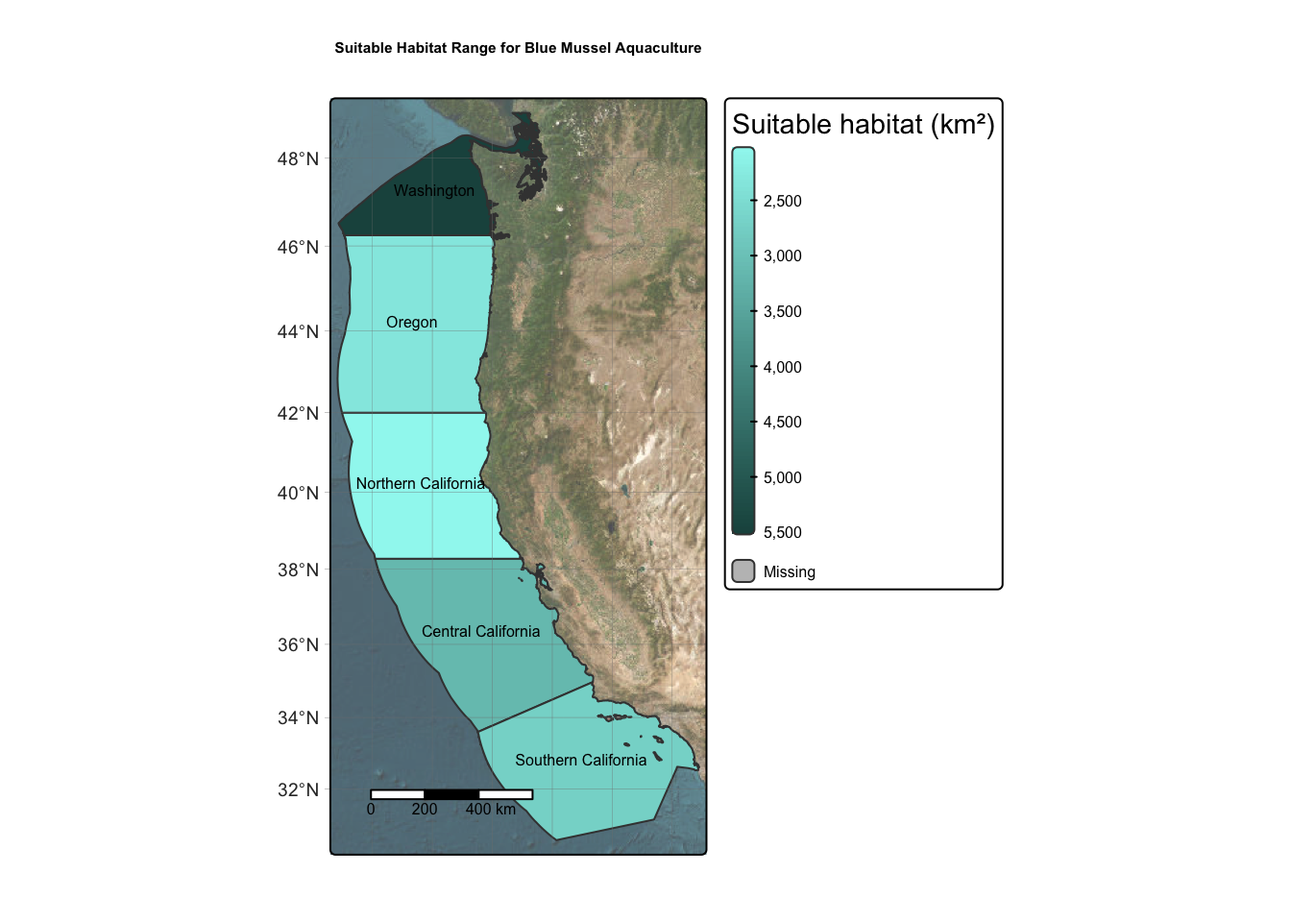
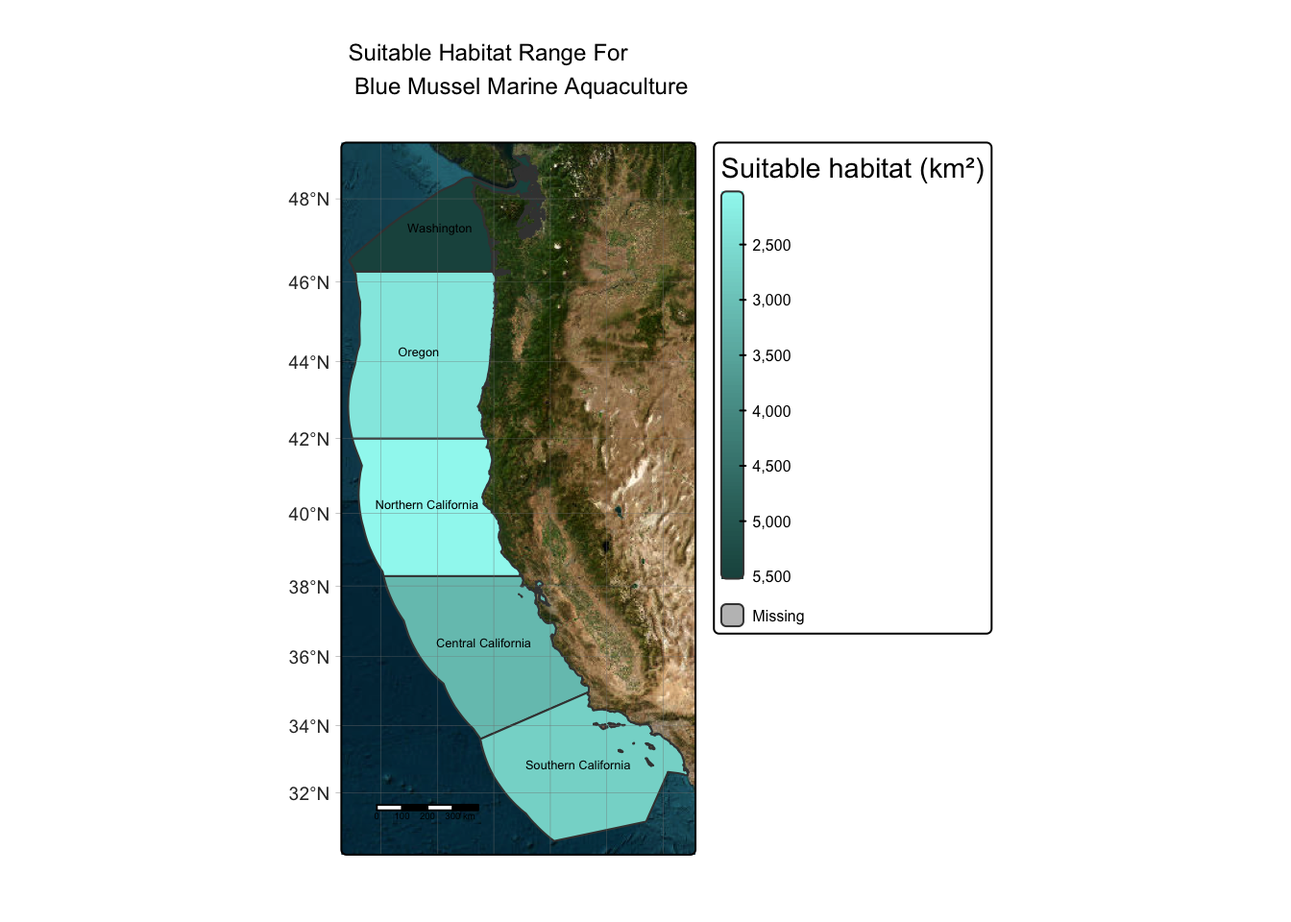
Update to eds-223 blog.

Changed region(s): [[0.2188, 0.0312, 0.7812, 0.9375]]

diff --git a/docs/posts/marine-aquaculture-blog/marine-aquaculture.html b/docs/posts/marine-aquaculture-blog/marine-aquaculture.html
@@ -604,21 +604,22 @@ div.csl-indent {
 <p>Now I will map the suitable locations for oyster marien aquaculture.</p>
 <div class="cell">
 <div class="code-copy-outer-scaffold"><div class="sourceCode cell-code" id="cb23"><pre class="sourceCode r code-with-copy"><code class="sourceCode r"><span id="cb23-1"><a href="#cb23-1" aria-hidden="true" tabindex="-1"></a><span class="co">#| label: oyster map</span></span>
-<span id="cb23-2"><a href="#cb23-2" aria-hidden="true" tabindex="-1"></a>oyster_map <span class="ot">&lt;-</span> <span class="fu">tm_tiles</span>(<span class="st">"Esri.WorldImagery"</span>, <span class="at">alpha =</span> <span class="fl">0.7</span>) <span class="sc">+</span> <span class="co"># basemap with tm_tiles()</span></span>
-<span id="cb23-3"><a href="#cb23-3" aria-hidden="true" tabindex="-1"></a><span class="fu">tm_shape</span>(eez_suitable_locations) <span class="sc">+</span></span>
-<span id="cb23-4"><a href="#cb23-4" aria-hidden="true" tabindex="-1"></a>  <span class="fu">tm_polygons</span>(<span class="at">fill =</span> <span class="st">"area_suitable_km"</span> , <span class="co"># fill polygons based on suitable area </span></span>
-<span id="cb23-5"><a href="#cb23-5" aria-hidden="true" tabindex="-1"></a>              <span class="at">style =</span> <span class="st">"cont"</span>, <span class="co"># continuous value scale </span></span>
-<span id="cb23-6"><a href="#cb23-6" aria-hidden="true" tabindex="-1"></a>    <span class="at">palette =</span> <span class="fu">c</span>(<span class="st">"#9ef7f0"</span>, <span class="st">"#1d524d"</span>), <span class="co"># palette of colors </span></span>
-<span id="cb23-7"><a href="#cb23-7" aria-hidden="true" tabindex="-1"></a>    <span class="at">title =</span> <span class="st">"Suitable habitat (km²)"</span>, <span class="at">size =</span> <span class="fl">0.8</span>) <span class="sc">+</span> <span class="co"># legend title </span></span>
-<span id="cb23-8"><a href="#cb23-8" aria-hidden="true" tabindex="-1"></a>  <span class="fu">tm_layout</span>(<span class="at">legend.outside =</span> <span class="cn">TRUE</span>, </span>
-<span id="cb23-9"><a href="#cb23-9" aria-hidden="true" tabindex="-1"></a>            <span class="at">legend.text.size =</span> <span class="fl">0.5</span>) <span class="sc">+</span> <span class="co"># legend position and size</span></span>
-<span id="cb23-10"><a href="#cb23-10" aria-hidden="true" tabindex="-1"></a>  <span class="fu">tm_title</span>(<span class="st">"Suitable Habitat Range for Oyster Aquaculture"</span>, <span class="at">fontface =</span> <span class="st">"bold"</span>, <span class="at">size =</span> <span class="fl">0.8</span>) <span class="sc">+</span> <span class="co"># title </span></span>
-<span id="cb23-11"><a href="#cb23-11" aria-hidden="true" tabindex="-1"></a>  <span class="fu">tm_graticules</span>(<span class="at">lwd =</span> <span class="fl">0.2</span>) <span class="sc">+</span> <span class="co"># gridlines </span></span>
-<span id="cb23-12"><a href="#cb23-12" aria-hidden="true" tabindex="-1"></a>  <span class="fu">tm_scalebar</span>(<span class="at">position =</span> <span class="fu">c</span>(<span class="st">"left"</span>, <span class="st">"bottom"</span>), <span class="at">text.size =</span> <span class="fl">0.5</span>) <span class="sc">+</span> <span class="co">#scalebar </span></span>
-<span id="cb23-13"><a href="#cb23-13" aria-hidden="true" tabindex="-1"></a>  <span class="fu">tm_text</span>(<span class="st">"rgn"</span>, <span class="co"># overlay text for region</span></span>
-<span id="cb23-14"><a href="#cb23-14" aria-hidden="true" tabindex="-1"></a>          <span class="at">size =</span> <span class="fl">0.5</span>,  </span>
-<span id="cb23-15"><a href="#cb23-15" aria-hidden="true" tabindex="-1"></a>          <span class="at">xmod =</span> <span class="sc">-</span><span class="fl">0.2</span>,</span>
-<span id="cb23-16"><a href="#cb23-16" aria-hidden="true" tabindex="-1"></a>  <span class="at">ymod =</span> <span class="fl">0.2</span>)</span></code></pre></div><button title="Copy to Clipboard" class="code-copy-button"><i class="bi"></i></button></div>
+<span id="cb23-2"><a href="#cb23-2" aria-hidden="true" tabindex="-1"></a>oyster_map <span class="ot">&lt;-</span></span>
+<span id="cb23-3"><a href="#cb23-3" aria-hidden="true" tabindex="-1"></a>  <span class="fu">tm_basemap</span>(<span class="st">"Esri.WorldImagery"</span>) <span class="sc">+</span></span>
+<span id="cb23-4"><a href="#cb23-4" aria-hidden="true" tabindex="-1"></a><span class="fu">tm_shape</span>(eez_suitable_locations) <span class="sc">+</span></span>
+<span id="cb23-5"><a href="#cb23-5" aria-hidden="true" tabindex="-1"></a>  <span class="fu">tm_polygons</span>(<span class="at">fill =</span> <span class="st">"area_suitable_km"</span> , <span class="co"># fill polygons based on suitable area </span></span>
+<span id="cb23-6"><a href="#cb23-6" aria-hidden="true" tabindex="-1"></a>              <span class="at">style =</span> <span class="st">"cont"</span>, <span class="co"># continuous value scale </span></span>
+<span id="cb23-7"><a href="#cb23-7" aria-hidden="true" tabindex="-1"></a>    <span class="at">palette =</span> <span class="fu">c</span>(<span class="st">"#9ef7f0"</span>, <span class="st">"#1d524d"</span>), <span class="co"># palette of colors </span></span>
+<span id="cb23-8"><a href="#cb23-8" aria-hidden="true" tabindex="-1"></a>    <span class="at">title =</span> <span class="st">"Suitable habitat (km²)"</span>, <span class="at">size =</span> <span class="fl">0.8</span>) <span class="sc">+</span> <span class="co"># legend title </span></span>
+<span id="cb23-9"><a href="#cb23-9" aria-hidden="true" tabindex="-1"></a>  <span class="fu">tm_layout</span>(<span class="at">legend.outside =</span> <span class="cn">TRUE</span>, </span>
+<span id="cb23-10"><a href="#cb23-10" aria-hidden="true" tabindex="-1"></a>            <span class="at">legend.text.size =</span> <span class="fl">0.5</span>) <span class="sc">+</span></span>
+<span id="cb23-11"><a href="#cb23-11" aria-hidden="true" tabindex="-1"></a>  <span class="fu">tm_title</span>(<span class="fu">paste</span>(<span class="st">"Suitable Habitat Range For"</span>, <span class="st">"Oyster Aquaculture"</span>, <span class="at">sep =</span> <span class="st">"</span><span class="sc">\n</span><span class="st">"</span>), <span class="at">size =</span> <span class="dv">1</span>)  <span class="sc">+</span></span>
+<span id="cb23-12"><a href="#cb23-12" aria-hidden="true" tabindex="-1"></a>  <span class="fu">tm_graticules</span>(<span class="at">lwd =</span> <span class="fl">0.2</span>) <span class="sc">+</span> <span class="co"># gridlines </span></span>
+<span id="cb23-13"><a href="#cb23-13" aria-hidden="true" tabindex="-1"></a>  <span class="fu">tm_scalebar</span>(<span class="at">position =</span> <span class="fu">c</span>(<span class="st">"left"</span>, <span class="st">"bottom"</span>), <span class="at">text.size =</span> <span class="fl">0.3</span>)<span class="sc">+</span> <span class="co">#scalebar </span></span>
+<span id="cb23-14"><a href="#cb23-14" aria-hidden="true" tabindex="-1"></a>  <span class="fu">tm_text</span>(<span class="st">"rgn"</span>, <span class="co"># overlay text for region</span></span>
+<span id="cb23-15"><a href="#cb23-15" aria-hidden="true" tabindex="-1"></a>          <span class="at">size =</span> <span class="fl">0.4</span>,  </span>
+<span id="cb23-16"><a href="#cb23-16" aria-hidden="true" tabindex="-1"></a>          <span class="at">xmod =</span> <span class="sc">-</span><span class="fl">0.2</span>,</span>
+<span id="cb23-17"><a href="#cb23-17" aria-hidden="true" tabindex="-1"></a>  <span class="at">ymod =</span> <span class="fl">0.3</span>)</span></code></pre></div><button title="Copy to Clipboard" class="code-copy-button"><i class="bi"></i></button></div>
 <div class="cell-output cell-output-stderr">
 <pre><code></code></pre>
 </div>
@@ -636,11 +637,6 @@ visual variable `fill` namely 'title' to 'fill.legend = tm_legend(&lt;HERE&gt;)'
 </div>
 <div class="code-copy-outer-scaffold"><div class="sourceCode cell-code" id="cb27"><pre class="sourceCode r code-with-copy"><code class="sourceCode r"><span id="cb27-1"><a href="#cb27-1" aria-hidden="true" tabindex="-1"></a><span class="co"># View map</span></span>
 <span id="cb27-2"><a href="#cb27-2" aria-hidden="true" tabindex="-1"></a>oyster_map </span></code></pre></div><button title="Copy to Clipboard" class="code-copy-button"><i class="bi"></i></button></div>
-<div class="cell-output cell-output-stderr">
-<pre><code>[plot mode] fit legend/component: Some legend items or map compoments do not
-fit well, and are therefore rescaled.
-ℹ Set the tmap option `component.autoscale = FALSE` to disable rescaling.</code></pre>
-</div>
 <div class="cell-output-display">
 <div>
 <figure class="figure">
@@ -655,114 +651,111 @@ fit well, and are therefore rescaled.
 <h2 class="anchored" data-anchor-id="generalizable-function">Generalizable function</h2>
 <p>Now that I have a worfklow for determining the suitable locations for oysters, I will create a generalizable function that can be applied to any species of interest. I will test this function for my second focal species <strong>blue mussels</strong>.</p>
 <div class="cell">
-<div class="code-copy-outer-scaffold"><div class="sourceCode cell-code" id="cb29"><pre class="sourceCode r code-with-copy"><code class="sourceCode r"><span id="cb29-1"><a href="#cb29-1" aria-hidden="true" tabindex="-1"></a><span class="co"># Define function name and arguments </span></span>
-<span id="cb29-2"><a href="#cb29-2" aria-hidden="true" tabindex="-1"></a>suitability_fun <span class="ot">&lt;-</span> <span class="cf">function</span>(sst_min, sst_max, depth_min, depth_max, species) {</span>
-<span id="cb29-3"><a href="#cb29-3" aria-hidden="true" tabindex="-1"></a>  </span>
-<span id="cb29-4"><a href="#cb29-4" aria-hidden="true" tabindex="-1"></a><span class="co"># 1. Reclassification matrices </span></span>
-<span id="cb29-5"><a href="#cb29-5" aria-hidden="true" tabindex="-1"></a>  </span>
-<span id="cb29-6"><a href="#cb29-6" aria-hidden="true" tabindex="-1"></a>  <span class="co"># Define SST reclassification matrix </span></span>
-<span id="cb29-7"><a href="#cb29-7" aria-hidden="true" tabindex="-1"></a>  sst_matrix <span class="ot">&lt;-</span> <span class="fu">matrix</span>(</span>
-<span id="cb29-8"><a href="#cb29-8" aria-hidden="true" tabindex="-1"></a>    <span class="fu">c</span>(</span>
-<span id="cb29-9"><a href="#cb29-9" aria-hidden="true" tabindex="-1"></a>      <span class="sc">-</span><span class="cn">Inf</span>,  sst_min, <span class="dv">0</span>,   <span class="co"># below min sst = 0/unsuitable</span></span>
-<span id="cb29-10"><a href="#cb29-10" aria-hidden="true" tabindex="-1"></a>       sst_min, sst_max, <span class="dv">1</span>, <span class="co"># range of sst = 1/suitable</span></span>
-<span id="cb29-11"><a href="#cb29-11" aria-hidden="true" tabindex="-1"></a>       sst_max, <span class="cn">Inf</span>,    <span class="dv">0</span>   <span class="co"># above max sst = 0/unsuitable</span></span>
-<span id="cb29-12"><a href="#cb29-12" aria-hidden="true" tabindex="-1"></a>    ),</span>
-<span id="cb29-13"><a href="#cb29-13" aria-hidden="true" tabindex="-1"></a>    <span class="at">ncol =</span> <span class="dv">3</span>, <span class="at">byrow =</span> <span class="cn">TRUE</span></span>
-<span id="cb29-14"><a href="#cb29-14" aria-hidden="true" tabindex="-1"></a>  )</span>
-<span id="cb29-15"><a href="#cb29-15" aria-hidden="true" tabindex="-1"></a></span>
-<span id="cb29-16"><a href="#cb29-16" aria-hidden="true" tabindex="-1"></a>  <span class="co"># Define Depth reclassification matrix </span></span>
-<span id="cb29-17"><a href="#cb29-17" aria-hidden="true" tabindex="-1"></a>dmin <span class="ot">&lt;-</span> <span class="fu">min</span>(depth_min, depth_max) <span class="co"># ensure depth min is the smaller depth</span></span>
-<span id="cb29-18"><a href="#cb29-18" aria-hidden="true" tabindex="-1"></a>dmax <span class="ot">&lt;-</span> <span class="fu">max</span>(depth_min, depth_max) </span>
-<span id="cb29-19"><a href="#cb29-19" aria-hidden="true" tabindex="-1"></a></span>
-<span id="cb29-20"><a href="#cb29-20" aria-hidden="true" tabindex="-1"></a>depth_matrix <span class="ot">&lt;-</span> <span class="fu">matrix</span>(</span>
-<span id="cb29-21"><a href="#cb29-21" aria-hidden="true" tabindex="-1"></a>  <span class="fu">c</span>(<span class="sc">-</span><span class="cn">Inf</span>, <span class="sc">-</span>dmax, <span class="dv">0</span>,</span>
-<span id="cb29-22"><a href="#cb29-22" aria-hidden="true" tabindex="-1"></a>    <span class="sc">-</span>dmax, <span class="sc">-</span>dmin, <span class="dv">1</span>,</span>
-<span id="cb29-23"><a href="#cb29-23" aria-hidden="true" tabindex="-1"></a>    <span class="sc">-</span>dmin, <span class="cn">Inf</span>, <span class="dv">0</span>),</span>
-<span id="cb29-24"><a href="#cb29-24" aria-hidden="true" tabindex="-1"></a>  <span class="at">ncol =</span> <span class="dv">3</span>, <span class="at">byrow =</span> <span class="cn">TRUE</span></span>
-<span id="cb29-25"><a href="#cb29-25" aria-hidden="true" tabindex="-1"></a>)</span>
-<span id="cb29-26"><a href="#cb29-26" aria-hidden="true" tabindex="-1"></a>  </span>
-<span id="cb29-27"><a href="#cb29-27" aria-hidden="true" tabindex="-1"></a><span class="co"># 2. Reclassify SST and Depth data </span></span>
-<span id="cb29-28"><a href="#cb29-28" aria-hidden="true" tabindex="-1"></a>  </span>
-<span id="cb29-29"><a href="#cb29-29" aria-hidden="true" tabindex="-1"></a>  <span class="co"># Reclassify SST </span></span>
-<span id="cb29-30"><a href="#cb29-30" aria-hidden="true" tabindex="-1"></a>  sst_rcl <span class="ot">&lt;-</span> terra<span class="sc">::</span><span class="fu">classify</span>(avg_sst_c, <span class="at">rcl =</span> sst_matrix)</span>
-<span id="cb29-31"><a href="#cb29-31" aria-hidden="true" tabindex="-1"></a>  <span class="co"># Fill NAN values with NAs </span></span>
-<span id="cb29-32"><a href="#cb29-32" aria-hidden="true" tabindex="-1"></a>  <span class="fu">values</span>(sst_rcl)[<span class="fu">is.nan</span>(<span class="fu">values</span>(sst_rcl))] <span class="ot">&lt;-</span> <span class="cn">NA</span></span>
-<span id="cb29-33"><a href="#cb29-33" aria-hidden="true" tabindex="-1"></a></span>
-<span id="cb29-34"><a href="#cb29-34" aria-hidden="true" tabindex="-1"></a>  <span class="co"># Reclassify depth </span></span>
-<span id="cb29-35"><a href="#cb29-35" aria-hidden="true" tabindex="-1"></a>  depth_rcl <span class="ot">&lt;-</span> terra<span class="sc">::</span><span class="fu">classify</span>(depth, <span class="at">rcl =</span> depth_matrix)</span>
-<span id="cb29-36"><a href="#cb29-36" aria-hidden="true" tabindex="-1"></a>  </span>
-<span id="cb29-37"><a href="#cb29-37" aria-hidden="true" tabindex="-1"></a><span class="co"># 3. Find suitable locations</span></span>
-<span id="cb29-38"><a href="#cb29-38" aria-hidden="true" tabindex="-1"></a>  <span class="co"># Multiply reclassifications to create matrix of 0/1</span></span>
-<span id="cb29-39"><a href="#cb29-39" aria-hidden="true" tabindex="-1"></a>  suitable_locations <span class="ot">&lt;-</span> sst_rcl <span class="sc">*</span> depth_rcl</span>
-<span id="cb29-40"><a href="#cb29-40" aria-hidden="true" tabindex="-1"></a></span>
-<span id="cb29-41"><a href="#cb29-41" aria-hidden="true" tabindex="-1"></a>  <span class="co"># Convert zeros to NAs</span></span>
-<span id="cb29-42"><a href="#cb29-42" aria-hidden="true" tabindex="-1"></a>  suitable_locations[suitable_locations <span class="sc">==</span> <span class="dv">0</span>] <span class="ot">&lt;-</span> <span class="cn">NA</span></span>
-<span id="cb29-43"><a href="#cb29-43" aria-hidden="true" tabindex="-1"></a></span>
-<span id="cb29-44"><a href="#cb29-44" aria-hidden="true" tabindex="-1"></a>  <span class="co"># Apply mask to keep only suitable raster cells in eez </span></span>
-<span id="cb29-45"><a href="#cb29-45" aria-hidden="true" tabindex="-1"></a>  eez_cells <span class="ot">&lt;-</span> <span class="fu">mask</span>(suitable_locations, eez)</span>
-<span id="cb29-46"><a href="#cb29-46" aria-hidden="true" tabindex="-1"></a>  </span>
-<span id="cb29-47"><a href="#cb29-47" aria-hidden="true" tabindex="-1"></a>  <span class="co"># Find cell area</span></span>
-<span id="cb29-48"><a href="#cb29-48" aria-hidden="true" tabindex="-1"></a>  eez_cells_area <span class="ot">&lt;-</span> <span class="fu">cellSize</span>(eez_cells, <span class="at">unit =</span> <span class="st">"km"</span>)</span>
-<span id="cb29-49"><a href="#cb29-49" aria-hidden="true" tabindex="-1"></a></span>
-<span id="cb29-50"><a href="#cb29-50" aria-hidden="true" tabindex="-1"></a><span class="co"># 4. Zonal operation</span></span>
-<span id="cb29-51"><a href="#cb29-51" aria-hidden="true" tabindex="-1"></a>  </span>
-<span id="cb29-52"><a href="#cb29-52" aria-hidden="true" tabindex="-1"></a>  <span class="co"># Rasterize eez</span></span>
-<span id="cb29-53"><a href="#cb29-53" aria-hidden="true" tabindex="-1"></a>rast_eez <span class="ot">&lt;-</span> <span class="fu">rasterize</span>(eez, eez_cells, <span class="at">field =</span> <span class="st">"rgn_id"</span>)</span>
-<span id="cb29-54"><a href="#cb29-54" aria-hidden="true" tabindex="-1"></a></span>
-<span id="cb29-55"><a href="#cb29-55" aria-hidden="true" tabindex="-1"></a>  <span class="co"># perform zonal operation </span></span>
-<span id="cb29-56"><a href="#cb29-56" aria-hidden="true" tabindex="-1"></a>area_by_eez<span class="ot">&lt;-</span> <span class="fu">zonal</span>(<span class="at">x =</span> eez_cells_area <span class="sc">*</span> eez_cells, <span class="at">z =</span> rast_eez, <span class="at">fun =</span> <span class="st">"sum"</span>, <span class="at">na.rm =</span> <span class="cn">TRUE</span>)</span>
-<span id="cb29-57"><a href="#cb29-57" aria-hidden="true" tabindex="-1"></a></span>
-<span id="cb29-58"><a href="#cb29-58" aria-hidden="true" tabindex="-1"></a><span class="co"># 5. Join data </span></span>
-<span id="cb29-59"><a href="#cb29-59" aria-hidden="true" tabindex="-1"></a></span>
-<span id="cb29-60"><a href="#cb29-60" aria-hidden="true" tabindex="-1"></a>eez_suitable_locations <span class="ot">&lt;-</span> area_by_eez <span class="sc">%&gt;%</span></span>
-<span id="cb29-61"><a href="#cb29-61" aria-hidden="true" tabindex="-1"></a>  <span class="fu">left_join</span>(eez, <span class="at">by =</span> <span class="st">"rgn_id"</span>) <span class="sc">%&gt;%</span> <span class="co"># join on 'rgn_id'</span></span>
-<span id="cb29-62"><a href="#cb29-62" aria-hidden="true" tabindex="-1"></a>  <span class="fu">rename</span>(<span class="at">area_suitable_km =</span> area) <span class="sc">%&gt;%</span> <span class="co"># rename column</span></span>
-<span id="cb29-63"><a href="#cb29-63" aria-hidden="true" tabindex="-1"></a>  <span class="fu">select</span>(rgn, area_suitable_km, geometry) <span class="co"># select certain columns for df</span></span>
-<span id="cb29-64"><a href="#cb29-64" aria-hidden="true" tabindex="-1"></a></span>
-<span id="cb29-65"><a href="#cb29-65" aria-hidden="true" tabindex="-1"></a><span class="co"># 6. Convert to sf object</span></span>
-<span id="cb29-66"><a href="#cb29-66" aria-hidden="true" tabindex="-1"></a>eez_suitable_locations <span class="ot">&lt;-</span> <span class="fu">st_as_sf</span>(eez_suitable_locations)</span>
-<span id="cb29-67"><a href="#cb29-67" aria-hidden="true" tabindex="-1"></a>  </span>
-<span id="cb29-68"><a href="#cb29-68" aria-hidden="true" tabindex="-1"></a></span>
-<span id="cb29-69"><a href="#cb29-69" aria-hidden="true" tabindex="-1"></a><span class="co"># 7.  Create map </span></span>
-<span id="cb29-70"><a href="#cb29-70" aria-hidden="true" tabindex="-1"></a>  </span>
-<span id="cb29-71"><a href="#cb29-71" aria-hidden="true" tabindex="-1"></a>species_map <span class="ot">&lt;-</span> <span class="fu">tm_tiles</span>(<span class="st">"Esri.WorldImagery"</span>, <span class="at">alpha =</span> <span class="fl">0.7</span>) <span class="sc">+</span> <span class="co"># basemap with tm_tiles()</span></span>
-<span id="cb29-72"><a href="#cb29-72" aria-hidden="true" tabindex="-1"></a><span class="fu">tm_shape</span>(eez_suitable_locations) <span class="sc">+</span></span>
-<span id="cb29-73"><a href="#cb29-73" aria-hidden="true" tabindex="-1"></a>  <span class="fu">tm_polygons</span>(<span class="at">fill =</span> <span class="st">"area_suitable_km"</span> , <span class="co"># fill polygons based on suitable area </span></span>
-<span id="cb29-74"><a href="#cb29-74" aria-hidden="true" tabindex="-1"></a>              <span class="at">style =</span> <span class="st">"cont"</span>, <span class="co"># continuous value scale </span></span>
-<span id="cb29-75"><a href="#cb29-75" aria-hidden="true" tabindex="-1"></a>    <span class="at">palette =</span> <span class="fu">c</span>(<span class="st">"#9ef7f0"</span>, <span class="st">"#1d524d"</span>), <span class="co"># palette of colors </span></span>
-<span id="cb29-76"><a href="#cb29-76" aria-hidden="true" tabindex="-1"></a>    <span class="at">title =</span> <span class="st">"Suitable habitat (km²)"</span>, <span class="at">size =</span> <span class="fl">0.8</span>) <span class="sc">+</span> <span class="co"># legend title </span></span>
-<span id="cb29-77"><a href="#cb29-77" aria-hidden="true" tabindex="-1"></a>  <span class="fu">tm_layout</span>(<span class="at">legend.outside =</span> <span class="cn">TRUE</span>, </span>
-<span id="cb29-78"><a href="#cb29-78" aria-hidden="true" tabindex="-1"></a>            <span class="at">legend.text.size =</span> <span class="fl">0.5</span>) <span class="sc">+</span> <span class="co"># legend position and size </span></span>
-<span id="cb29-79"><a href="#cb29-79" aria-hidden="true" tabindex="-1"></a>  <span class="fu">tm_title</span>(</span>
-<span id="cb29-80"><a href="#cb29-80" aria-hidden="true" tabindex="-1"></a>  <span class="fu">paste0</span>(<span class="st">"Suitable Habitat Range for "</span>, species, <span class="st">" Aquaculture"</span>),</span>
-<span id="cb29-81"><a href="#cb29-81" aria-hidden="true" tabindex="-1"></a>  <span class="at">fontface =</span> <span class="st">"bold"</span>,</span>
-<span id="cb29-82"><a href="#cb29-82" aria-hidden="true" tabindex="-1"></a>  <span class="at">size =</span> <span class="dv">1</span></span>
-<span id="cb29-83"><a href="#cb29-83" aria-hidden="true" tabindex="-1"></a>)<span class="sc">+</span> <span class="co"># title </span></span>
-<span id="cb29-84"><a href="#cb29-84" aria-hidden="true" tabindex="-1"></a>  <span class="fu">tm_graticules</span>(<span class="at">lwd =</span> <span class="fl">0.2</span>) <span class="sc">+</span> <span class="co"># gridlines </span></span>
-<span id="cb29-85"><a href="#cb29-85" aria-hidden="true" tabindex="-1"></a>  <span class="fu">tm_scalebar</span>(<span class="at">position =</span> <span class="fu">c</span>(<span class="st">"left"</span>, <span class="st">"bottom"</span>), <span class="at">text.size =</span> <span class="fl">0.5</span>) <span class="sc">+</span> <span class="co">#scalebar </span></span>
-<span id="cb29-86"><a href="#cb29-86" aria-hidden="true" tabindex="-1"></a>  <span class="fu">tm_text</span>(<span class="st">"rgn"</span>, <span class="co"># overlay text for region</span></span>
-<span id="cb29-87"><a href="#cb29-87" aria-hidden="true" tabindex="-1"></a>          <span class="at">size =</span> <span class="fl">0.5</span>,  </span>
-<span id="cb29-88"><a href="#cb29-88" aria-hidden="true" tabindex="-1"></a>          <span class="at">xmod =</span> <span class="sc">-</span><span class="fl">0.2</span>,</span>
-<span id="cb29-89"><a href="#cb29-89" aria-hidden="true" tabindex="-1"></a>  <span class="at">ymod =</span> <span class="fl">0.2</span>)</span>
-<span id="cb29-90"><a href="#cb29-90" aria-hidden="true" tabindex="-1"></a></span>
-<span id="cb29-91"><a href="#cb29-91" aria-hidden="true" tabindex="-1"></a></span>
-<span id="cb29-92"><a href="#cb29-92" aria-hidden="true" tabindex="-1"></a><span class="co"># return species map and table of eez suitable area </span></span>
-<span id="cb29-93"><a href="#cb29-93" aria-hidden="true" tabindex="-1"></a><span class="fu">return</span>(species_map) </span>
-<span id="cb29-94"><a href="#cb29-94" aria-hidden="true" tabindex="-1"></a></span>
-<span id="cb29-95"><a href="#cb29-95" aria-hidden="true" tabindex="-1"></a>}</span></code></pre></div><button title="Copy to Clipboard" class="code-copy-button"><i class="bi"></i></button></div>
+<div class="code-copy-outer-scaffold"><div class="sourceCode cell-code" id="cb28"><pre class="sourceCode r code-with-copy"><code class="sourceCode r"><span id="cb28-1"><a href="#cb28-1" aria-hidden="true" tabindex="-1"></a><span class="co"># Define function name and arguments </span></span>
+<span id="cb28-2"><a href="#cb28-2" aria-hidden="true" tabindex="-1"></a>suitability_fun <span class="ot">&lt;-</span> <span class="cf">function</span>(sst_min, sst_max, depth_min, depth_max, species) {</span>
+<span id="cb28-3"><a href="#cb28-3" aria-hidden="true" tabindex="-1"></a>  </span>
+<span id="cb28-4"><a href="#cb28-4" aria-hidden="true" tabindex="-1"></a><span class="co"># 1. Reclassification matrices </span></span>
+<span id="cb28-5"><a href="#cb28-5" aria-hidden="true" tabindex="-1"></a>  </span>
+<span id="cb28-6"><a href="#cb28-6" aria-hidden="true" tabindex="-1"></a>  <span class="co"># Define SST reclassification matrix </span></span>
+<span id="cb28-7"><a href="#cb28-7" aria-hidden="true" tabindex="-1"></a>  sst_matrix <span class="ot">&lt;-</span> <span class="fu">matrix</span>(</span>
+<span id="cb28-8"><a href="#cb28-8" aria-hidden="true" tabindex="-1"></a>    <span class="fu">c</span>(</span>
+<span id="cb28-9"><a href="#cb28-9" aria-hidden="true" tabindex="-1"></a>      <span class="sc">-</span><span class="cn">Inf</span>,  sst_min, <span class="dv">0</span>,   <span class="co"># below min sst = 0/unsuitable</span></span>
+<span id="cb28-10"><a href="#cb28-10" aria-hidden="true" tabindex="-1"></a>       sst_min, sst_max, <span class="dv">1</span>, <span class="co"># range of sst = 1/suitable</span></span>
+<span id="cb28-11"><a href="#cb28-11" aria-hidden="true" tabindex="-1"></a>       sst_max, <span class="cn">Inf</span>,    <span class="dv">0</span>   <span class="co"># above max sst = 0/unsuitable</span></span>
+<span id="cb28-12"><a href="#cb28-12" aria-hidden="true" tabindex="-1"></a>    ),</span>
+<span id="cb28-13"><a href="#cb28-13" aria-hidden="true" tabindex="-1"></a>    <span class="at">ncol =</span> <span class="dv">3</span>, <span class="at">byrow =</span> <span class="cn">TRUE</span></span>
+<span id="cb28-14"><a href="#cb28-14" aria-hidden="true" tabindex="-1"></a>  )</span>
+<span id="cb28-15"><a href="#cb28-15" aria-hidden="true" tabindex="-1"></a></span>
+<span id="cb28-16"><a href="#cb28-16" aria-hidden="true" tabindex="-1"></a>  <span class="co"># Define Depth reclassification matrix </span></span>
+<span id="cb28-17"><a href="#cb28-17" aria-hidden="true" tabindex="-1"></a>dmin <span class="ot">&lt;-</span> <span class="fu">min</span>(depth_min, depth_max) <span class="co"># ensure depth min is the smaller depth</span></span>
+<span id="cb28-18"><a href="#cb28-18" aria-hidden="true" tabindex="-1"></a>dmax <span class="ot">&lt;-</span> <span class="fu">max</span>(depth_min, depth_max) </span>
+<span id="cb28-19"><a href="#cb28-19" aria-hidden="true" tabindex="-1"></a></span>
+<span id="cb28-20"><a href="#cb28-20" aria-hidden="true" tabindex="-1"></a>depth_matrix <span class="ot">&lt;-</span> <span class="fu">matrix</span>(</span>
+<span id="cb28-21"><a href="#cb28-21" aria-hidden="true" tabindex="-1"></a>  <span class="fu">c</span>(<span class="sc">-</span><span class="cn">Inf</span>, <span class="sc">-</span>dmax, <span class="dv">0</span>,</span>
+<span id="cb28-22"><a href="#cb28-22" aria-hidden="true" tabindex="-1"></a>    <span class="sc">-</span>dmax, <span class="sc">-</span>dmin, <span class="dv">1</span>,</span>
+<span id="cb28-23"><a href="#cb28-23" aria-hidden="true" tabindex="-1"></a>    <span class="sc">-</span>dmin, <span class="cn">Inf</span>, <span class="dv">0</span>),</span>
+<span id="cb28-24"><a href="#cb28-24" aria-hidden="true" tabindex="-1"></a>  <span class="at">ncol =</span> <span class="dv">3</span>, <span class="at">byrow =</span> <span class="cn">TRUE</span></span>
+<span id="cb28-25"><a href="#cb28-25" aria-hidden="true" tabindex="-1"></a>)</span>
+<span id="cb28-26"><a href="#cb28-26" aria-hidden="true" tabindex="-1"></a>  </span>
+<span id="cb28-27"><a href="#cb28-27" aria-hidden="true" tabindex="-1"></a><span class="co"># 2. Reclassify SST and Depth data </span></span>
+<span id="cb28-28"><a href="#cb28-28" aria-hidden="true" tabindex="-1"></a>  </span>
+<span id="cb28-29"><a href="#cb28-29" aria-hidden="true" tabindex="-1"></a>  <span class="co"># Reclassify SST </span></span>
+<span id="cb28-30"><a href="#cb28-30" aria-hidden="true" tabindex="-1"></a>  sst_rcl <span class="ot">&lt;-</span> terra<span class="sc">::</span><span class="fu">classify</span>(avg_sst_c, <span class="at">rcl =</span> sst_matrix)</span>
+<span id="cb28-31"><a href="#cb28-31" aria-hidden="true" tabindex="-1"></a>  <span class="co"># Fill NAN values with NAs </span></span>
+<span id="cb28-32"><a href="#cb28-32" aria-hidden="true" tabindex="-1"></a>  <span class="fu">values</span>(sst_rcl)[<span class="fu">is.nan</span>(<span class="fu">values</span>(sst_rcl))] <span class="ot">&lt;-</span> <span class="cn">NA</span></span>
+<span id="cb28-33"><a href="#cb28-33" aria-hidden="true" tabindex="-1"></a></span>
+<span id="cb28-34"><a href="#cb28-34" aria-hidden="true" tabindex="-1"></a>  <span class="co"># Reclassify depth </span></span>
+<span id="cb28-35"><a href="#cb28-35" aria-hidden="true" tabindex="-1"></a>  depth_rcl <span class="ot">&lt;-</span> terra<span class="sc">::</span><span class="fu">classify</span>(depth, <span class="at">rcl =</span> depth_matrix)</span>
+<span id="cb28-36"><a href="#cb28-36" aria-hidden="true" tabindex="-1"></a>  </span>
+<span id="cb28-37"><a href="#cb28-37" aria-hidden="true" tabindex="-1"></a><span class="co"># 3. Find suitable locations</span></span>
+<span id="cb28-38"><a href="#cb28-38" aria-hidden="true" tabindex="-1"></a>  <span class="co"># Multiply reclassifications to create matrix of 0/1</span></span>
+<span id="cb28-39"><a href="#cb28-39" aria-hidden="true" tabindex="-1"></a>  suitable_locations <span class="ot">&lt;-</span> sst_rcl <span class="sc">*</span> depth_rcl</span>
+<span id="cb28-40"><a href="#cb28-40" aria-hidden="true" tabindex="-1"></a></span>
+<span id="cb28-41"><a href="#cb28-41" aria-hidden="true" tabindex="-1"></a>  <span class="co"># Convert zeros to NAs</span></span>
+<span id="cb28-42"><a href="#cb28-42" aria-hidden="true" tabindex="-1"></a>  suitable_locations[suitable_locations <span class="sc">==</span> <span class="dv">0</span>] <span class="ot">&lt;-</span> <span class="cn">NA</span></span>
+<span id="cb28-43"><a href="#cb28-43" aria-hidden="true" tabindex="-1"></a></span>
+<span id="cb28-44"><a href="#cb28-44" aria-hidden="true" tabindex="-1"></a>  <span class="co"># Apply mask to keep only suitable raster cells in eez </span></span>
+<span id="cb28-45"><a href="#cb28-45" aria-hidden="true" tabindex="-1"></a>  eez_cells <span class="ot">&lt;-</span> <span class="fu">mask</span>(suitable_locations, eez)</span>
+<span id="cb28-46"><a href="#cb28-46" aria-hidden="true" tabindex="-1"></a>  </span>
+<span id="cb28-47"><a href="#cb28-47" aria-hidden="true" tabindex="-1"></a>  <span class="co"># Find cell area</span></span>
+<span id="cb28-48"><a href="#cb28-48" aria-hidden="true" tabindex="-1"></a>  eez_cells_area <span class="ot">&lt;-</span> <span class="fu">cellSize</span>(eez_cells, <span class="at">unit =</span> <span class="st">"km"</span>)</span>
+<span id="cb28-49"><a href="#cb28-49" aria-hidden="true" tabindex="-1"></a></span>
+<span id="cb28-50"><a href="#cb28-50" aria-hidden="true" tabindex="-1"></a><span class="co"># 4. Zonal operation</span></span>
+<span id="cb28-51"><a href="#cb28-51" aria-hidden="true" tabindex="-1"></a>  </span>
+<span id="cb28-52"><a href="#cb28-52" aria-hidden="true" tabindex="-1"></a>  <span class="co"># Rasterize eez</span></span>
+<span id="cb28-53"><a href="#cb28-53" aria-hidden="true" tabindex="-1"></a>rast_eez <span class="ot">&lt;-</span> <span class="fu">rasterize</span>(eez, eez_cells, <span class="at">field =</span> <span class="st">"rgn_id"</span>)</span>
+<span id="cb28-54"><a href="#cb28-54" aria-hidden="true" tabindex="-1"></a></span>
+<span id="cb28-55"><a href="#cb28-55" aria-hidden="true" tabindex="-1"></a>  <span class="co"># perform zonal operation </span></span>
+<span id="cb28-56"><a href="#cb28-56" aria-hidden="true" tabindex="-1"></a>area_by_eez<span class="ot">&lt;-</span> <span class="fu">zonal</span>(<span class="at">x =</span> eez_cells_area <span class="sc">*</span> eez_cells, <span class="at">z =</span> rast_eez, <span class="at">fun =</span> <span class="st">"sum"</span>, <span class="at">na.rm =</span> <span class="cn">TRUE</span>)</span>
+<span id="cb28-57"><a href="#cb28-57" aria-hidden="true" tabindex="-1"></a></span>
+<span id="cb28-58"><a href="#cb28-58" aria-hidden="true" tabindex="-1"></a><span class="co"># 5. Join data </span></span>
+<span id="cb28-59"><a href="#cb28-59" aria-hidden="true" tabindex="-1"></a></span>
+<span id="cb28-60"><a href="#cb28-60" aria-hidden="true" tabindex="-1"></a>eez_suitable_locations <span class="ot">&lt;-</span> area_by_eez <span class="sc">%&gt;%</span></span>
+<span id="cb28-61"><a href="#cb28-61" aria-hidden="true" tabindex="-1"></a>  <span class="fu">left_join</span>(eez, <span class="at">by =</span> <span class="st">"rgn_id"</span>) <span class="sc">%&gt;%</span> <span class="co"># join on 'rgn_id'</span></span>
+<span id="cb28-62"><a href="#cb28-62" aria-hidden="true" tabindex="-1"></a>  <span class="fu">rename</span>(<span class="at">area_suitable_km =</span> area) <span class="sc">%&gt;%</span> <span class="co"># rename column</span></span>
+<span id="cb28-63"><a href="#cb28-63" aria-hidden="true" tabindex="-1"></a>  <span class="fu">select</span>(rgn, area_suitable_km, geometry) <span class="co"># select certain columns for df</span></span>
+<span id="cb28-64"><a href="#cb28-64" aria-hidden="true" tabindex="-1"></a></span>
+<span id="cb28-65"><a href="#cb28-65" aria-hidden="true" tabindex="-1"></a><span class="co"># 6. Convert to sf object</span></span>
+<span id="cb28-66"><a href="#cb28-66" aria-hidden="true" tabindex="-1"></a>eez_suitable_locations <span class="ot">&lt;-</span> <span class="fu">st_as_sf</span>(eez_suitable_locations)</span>
+<span id="cb28-67"><a href="#cb28-67" aria-hidden="true" tabindex="-1"></a>  </span>
+<span id="cb28-68"><a href="#cb28-68" aria-hidden="true" tabindex="-1"></a></span>
+<span id="cb28-69"><a href="#cb28-69" aria-hidden="true" tabindex="-1"></a><span class="co"># 7.  Create map </span></span>
+<span id="cb28-70"><a href="#cb28-70" aria-hidden="true" tabindex="-1"></a>  </span>
+<span id="cb28-71"><a href="#cb28-71" aria-hidden="true" tabindex="-1"></a>species_map <span class="ot">&lt;-</span></span>
+<span id="cb28-72"><a href="#cb28-72" aria-hidden="true" tabindex="-1"></a><span class="fu">tm_basemap</span>(<span class="st">"Esri.WorldImagery"</span>) <span class="sc">+</span></span>
+<span id="cb28-73"><a href="#cb28-73" aria-hidden="true" tabindex="-1"></a><span class="fu">tm_shape</span>(eez_suitable_locations) <span class="sc">+</span></span>
+<span id="cb28-74"><a href="#cb28-74" aria-hidden="true" tabindex="-1"></a>  <span class="fu">tm_polygons</span>(<span class="at">fill =</span> <span class="st">"area_suitable_km"</span> , <span class="co"># fill polygons based on suitable area </span></span>
+<span id="cb28-75"><a href="#cb28-75" aria-hidden="true" tabindex="-1"></a>              <span class="at">style =</span> <span class="st">"cont"</span>, <span class="co"># continuous value scale </span></span>
+<span id="cb28-76"><a href="#cb28-76" aria-hidden="true" tabindex="-1"></a>    <span class="at">palette =</span> <span class="fu">c</span>(<span class="st">"#9ef7f0"</span>, <span class="st">"#1d524d"</span>), <span class="co"># palette of colors </span></span>
+<span id="cb28-77"><a href="#cb28-77" aria-hidden="true" tabindex="-1"></a>    <span class="at">title =</span> <span class="st">"Suitable habitat (km²)"</span>, <span class="at">size =</span> <span class="fl">0.8</span>) <span class="sc">+</span> <span class="co"># legend title </span></span>
+<span id="cb28-78"><a href="#cb28-78" aria-hidden="true" tabindex="-1"></a>  <span class="fu">tm_layout</span>(<span class="at">legend.outside =</span> <span class="cn">TRUE</span>, </span>
+<span id="cb28-79"><a href="#cb28-79" aria-hidden="true" tabindex="-1"></a>            <span class="at">legend.text.size =</span> <span class="fl">0.5</span>) <span class="sc">+</span></span>
+<span id="cb28-80"><a href="#cb28-80" aria-hidden="true" tabindex="-1"></a>  <span class="fu">tm_title</span>(<span class="fu">paste</span>(<span class="st">"Suitable Habitat Range For"</span>, <span class="st">"</span><span class="sc">\n</span><span class="st">"</span>, <span class="st">"Blue Mussel Marine Aquaculture"</span>), <span class="at">size =</span> <span class="dv">1</span>) <span class="sc">+</span></span>
+<span id="cb28-81"><a href="#cb28-81" aria-hidden="true" tabindex="-1"></a>  <span class="fu">tm_graticules</span>(<span class="at">lwd =</span> <span class="fl">0.2</span>) <span class="sc">+</span> <span class="co"># gridlines </span></span>
+<span id="cb28-82"><a href="#cb28-82" aria-hidden="true" tabindex="-1"></a>  <span class="fu">tm_scalebar</span>(<span class="at">position =</span> <span class="fu">c</span>(<span class="st">"left"</span>, <span class="st">"bottom"</span>), <span class="at">text.size =</span> <span class="fl">0.3</span>)<span class="sc">+</span> <span class="co">#scalebar </span></span>
+<span id="cb28-83"><a href="#cb28-83" aria-hidden="true" tabindex="-1"></a>  <span class="fu">tm_text</span>(<span class="st">"rgn"</span>, <span class="co"># overlay text for region</span></span>
+<span id="cb28-84"><a href="#cb28-84" aria-hidden="true" tabindex="-1"></a>          <span class="at">size =</span> <span class="fl">0.4</span>,  </span>
+<span id="cb28-85"><a href="#cb28-85" aria-hidden="true" tabindex="-1"></a>          <span class="at">xmod =</span> <span class="sc">-</span><span class="fl">0.2</span>,</span>
+<span id="cb28-86"><a href="#cb28-86" aria-hidden="true" tabindex="-1"></a>  <span class="at">ymod =</span> <span class="fl">0.3</span>)</span>
+<span id="cb28-87"><a href="#cb28-87" aria-hidden="true" tabindex="-1"></a></span>
+<span id="cb28-88"><a href="#cb28-88" aria-hidden="true" tabindex="-1"></a></span>
+<span id="cb28-89"><a href="#cb28-89" aria-hidden="true" tabindex="-1"></a><span class="co"># return species map and table of eez suitable area </span></span>
+<span id="cb28-90"><a href="#cb28-90" aria-hidden="true" tabindex="-1"></a><span class="fu">return</span>(species_map) </span>
+<span id="cb28-91"><a href="#cb28-91" aria-hidden="true" tabindex="-1"></a></span>
+<span id="cb28-92"><a href="#cb28-92" aria-hidden="true" tabindex="-1"></a>}</span></code></pre></div><button title="Copy to Clipboard" class="code-copy-button"><i class="bi"></i></button></div>
 </div>
 </section>
 <section id="apply-function-blue-mussels" class="level2">
 <h2 class="anchored" data-anchor-id="apply-function-blue-mussels">Apply function: Blue Mussels</h2>
 <p>In this section I will apply the <code>suitability_fun</code> function to my second focal species <strong>blue mussels</strong>.</p>
 <div class="cell">
-<div class="code-copy-outer-scaffold"><div class="sourceCode cell-code" id="cb30"><pre class="sourceCode r code-with-copy"><code class="sourceCode r"><span id="cb30-1"><a href="#cb30-1" aria-hidden="true" tabindex="-1"></a><span class="fu">suitability_fun</span>(</span>
-<span id="cb30-2"><a href="#cb30-2" aria-hidden="true" tabindex="-1"></a>  <span class="at">sst_min =</span> <span class="dv">5</span>, <span class="co"># define min stt value</span></span>
-<span id="cb30-3"><a href="#cb30-3" aria-hidden="true" tabindex="-1"></a>  <span class="at">sst_max =</span> <span class="dv">20</span>, <span class="co"># define max sst value</span></span>
-<span id="cb30-4"><a href="#cb30-4" aria-hidden="true" tabindex="-1"></a>  <span class="at">depth_min =</span> <span class="dv">0</span>, <span class="co"># define min depth value</span></span>
-<span id="cb30-5"><a href="#cb30-5" aria-hidden="true" tabindex="-1"></a>  <span class="at">depth_max =</span> <span class="dv">60</span>, <span class="co"># define max depth value </span></span>
-<span id="cb30-6"><a href="#cb30-6" aria-hidden="true" tabindex="-1"></a>  <span class="at">species =</span> <span class="st">"Blue Mussel"</span> <span class="co"># define species name </span></span>
-<span id="cb30-7"><a href="#cb30-7" aria-hidden="true" tabindex="-1"></a>)</span></code></pre></div><button title="Copy to Clipboard" class="code-copy-button"><i class="bi"></i></button></div>
+<div class="code-copy-outer-scaffold"><div class="sourceCode cell-code" id="cb29"><pre class="sourceCode r code-with-copy"><code class="sourceCode r"><span id="cb29-1"><a href="#cb29-1" aria-hidden="true" tabindex="-1"></a><span class="fu">suitability_fun</span>(</span>
+<span id="cb29-2"><a href="#cb29-2" aria-hidden="true" tabindex="-1"></a>  <span class="at">sst_min =</span> <span class="dv">5</span>, <span class="co"># define min stt value</span></span>
+<span id="cb29-3"><a href="#cb29-3" aria-hidden="true" tabindex="-1"></a>  <span class="at">sst_max =</span> <span class="dv">20</span>, <span class="co"># define max sst value</span></span>
+<span id="cb29-4"><a href="#cb29-4" aria-hidden="true" tabindex="-1"></a>  <span class="at">depth_min =</span> <span class="dv">0</span>, <span class="co"># define min depth value</span></span>
+<span id="cb29-5"><a href="#cb29-5" aria-hidden="true" tabindex="-1"></a>  <span class="at">depth_max =</span> <span class="dv">60</span>, <span class="co"># define max depth value </span></span>
+<span id="cb29-6"><a href="#cb29-6" aria-hidden="true" tabindex="-1"></a>  <span class="at">species =</span> <span class="st">"Blue Mussel"</span> <span class="co"># define species name </span></span>
+<span id="cb29-7"><a href="#cb29-7" aria-hidden="true" tabindex="-1"></a>)</span></code></pre></div><button title="Copy to Clipboard" class="code-copy-button"><i class="bi"></i></button></div>
 <div class="cell-output cell-output-stderr">
 <pre><code></code></pre>
 </div>

diff --git a/docs/posts.html b/docs/posts.html
@@ -218,7 +218,7 @@ window.Quarto = {
 
 <div class="quarto-listing quarto-listing-container-grid" id="listing-listing">
 <div class="list grid quarto-listing-cols-3">
-<div class="g-col-1" data-index="0" data-categories="TUVEUyUyQ1IlMkNkYXRhLXZpeg==" data-listing-date-sort="1765008000000" data-listing-file-modified-sort="1765085914442" data-listing-date-modified-sort="NaN" data-listing-reading-time-sort="14" data-listing-word-count-sort="2617">
+<div class="g-col-1" data-index="0" data-categories="TUVEUyUyQ1IlMkNkYXRhLXZpeg==" data-listing-date-sort="1765008000000" data-listing-file-modified-sort="1765239671451" data-listing-date-modified-sort="NaN" data-listing-reading-time-sort="13" data-listing-word-count-sort="2580">
 <a href="./posts/marine-aquaculture-blog/marine-aquaculture.html" class="quarto-grid-link">
 <div class="quarto-grid-item card h-100 card-left">
 <p class="card-img-top">
